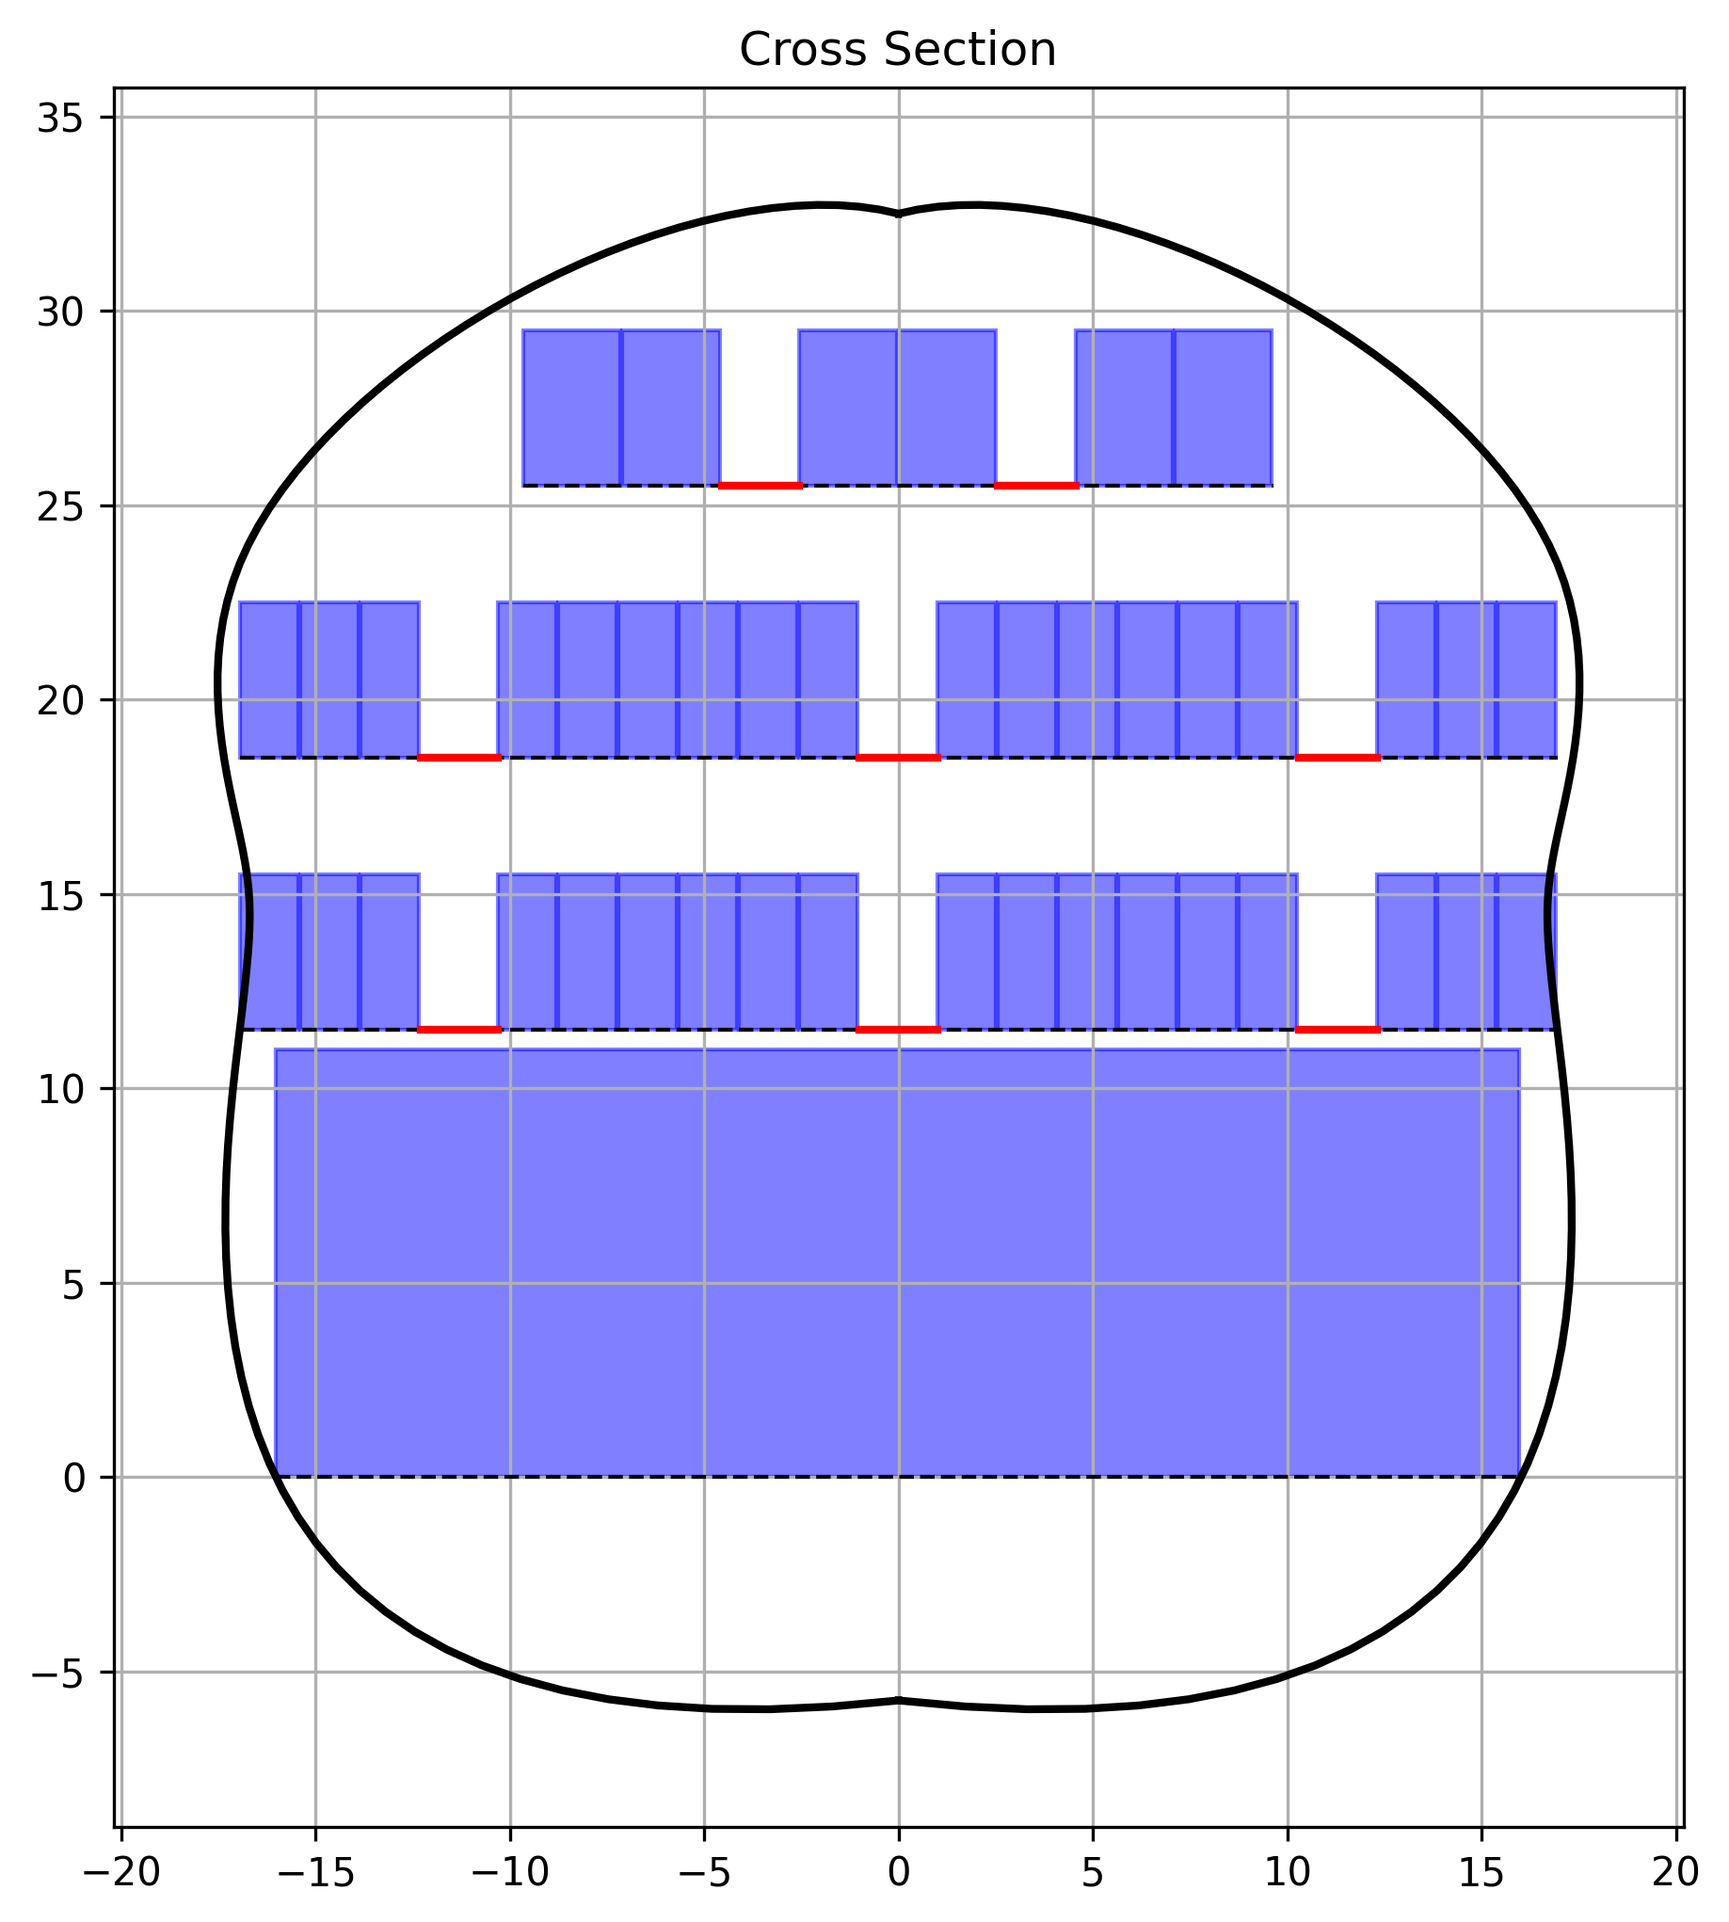
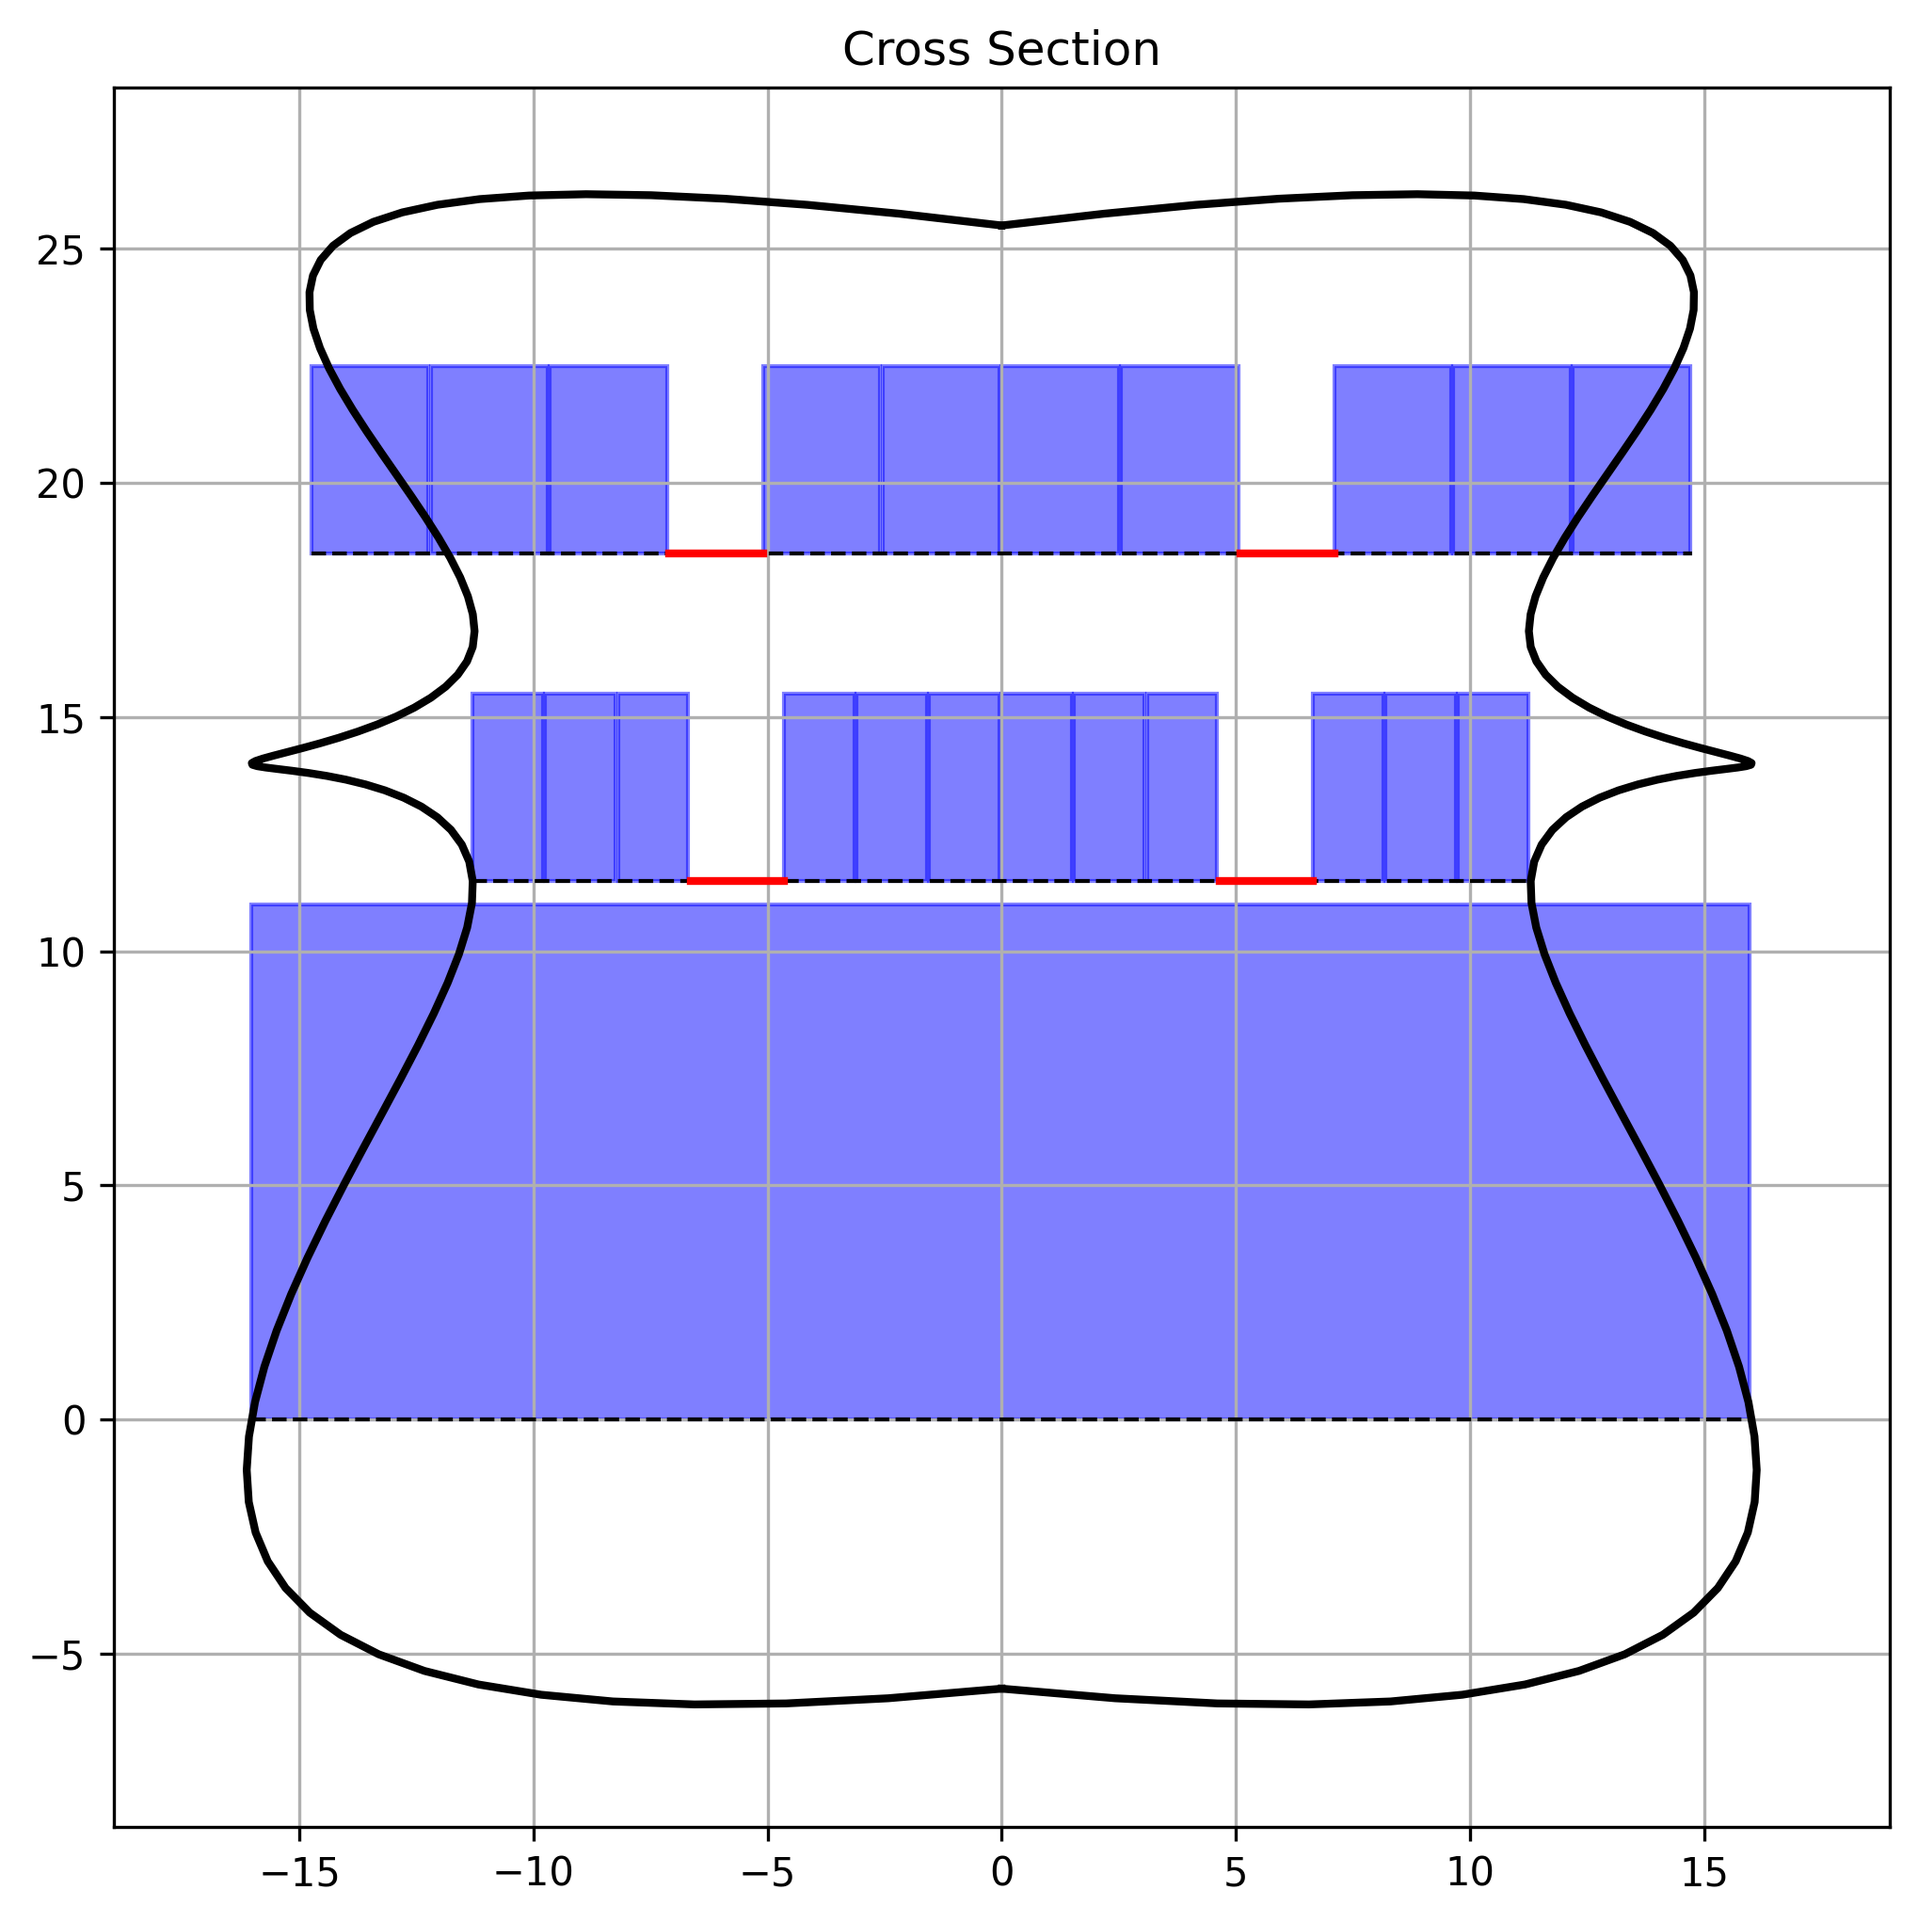
Codr plane
added my codr plane design

diff --git a/scripts/aircraft_drawing_new.py b/scripts/aircraft_drawing_new.py
@@ -568,7 +568,7 @@ def main():
             'seat_width': 32,
             'seat_depth': 2,    
             'seat_height': 11,
-            'headroom_height':0,
+            'headroom_height':3,
             'ceiling_height':11.5,
             'aisle_width': 0.5,
             'seat_distribution':[1],
@@ -581,7 +581,7 @@ def main():
             'headroom_height':1,
             'ceiling_height':7,
             'aisle_width': 2,
-            'seat_distribution':[3,6,6,3]
+            'seat_distribution':[3,6,3]
         },
         {
             'seat_width': 1.5,
@@ -590,22 +590,13 @@ def main():
             'headroom_height':1,
             'ceiling_height':7,
             'aisle_width': 2,
-            'seat_distribution':[3,6,6,3]
-        },
-        {
-            'seat_width': 2.5,
-            'seat_depth': 2.6,
-            'seat_height': 4,
-            'headroom_height':1,
-            'ceiling_height':7,
-            'aisle_width': 2,
-            'seat_distribution':[2,2,2]
+            'seat_distribution':[3,4,3]
         },
 
     ]
     galleys = [
-        {'length': 20, 'number':2, 'floor': 1},
-        {'length': 20, 'number':2, 'floor': 2}
+        {'length': 20, 'number':3, 'floor': 1},
+        {'length': 20, 'number':3, 'floor': 2}
     ]
 
     engines = [
@@ -624,7 +615,7 @@ def main():
         total_passengers=1200,
         seat_configs=seat_configs,
         galleys=galleys,
-        wingspan=311, #f
+        wingspan=315, #f
         sweep=37.5, #deg
         wing_chord_data=[(0, 65), (30, 45), (100, 15)],
         wing_thickness=0.12, dihedral=5,
